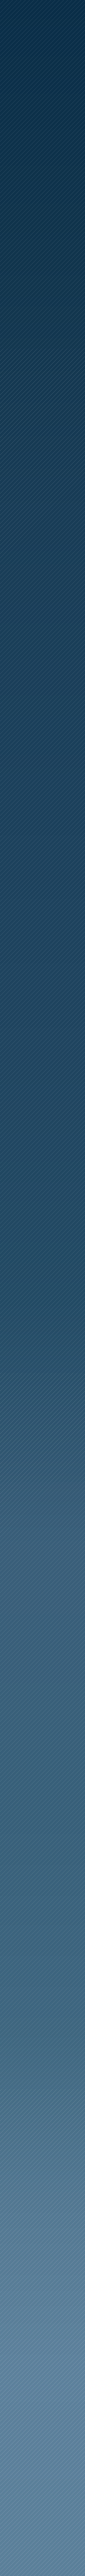
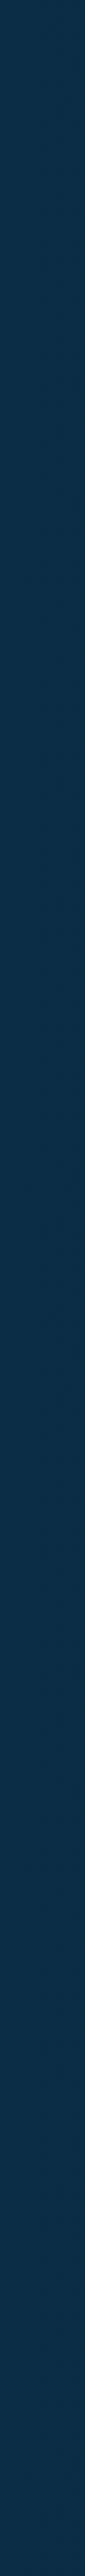
Updated background, moved home button

diff --git a/public/stylesheets/layout.css b/public/stylesheets/layout.css
@@ -304,7 +304,7 @@ div#flash-notice {
   background: url(../images/home_button.png) 0 0 no-repeat;
   position: absolute;
   top: 490px;
-  left: 157px;
+  left: 165px;
 }
 
 #top-nav {
